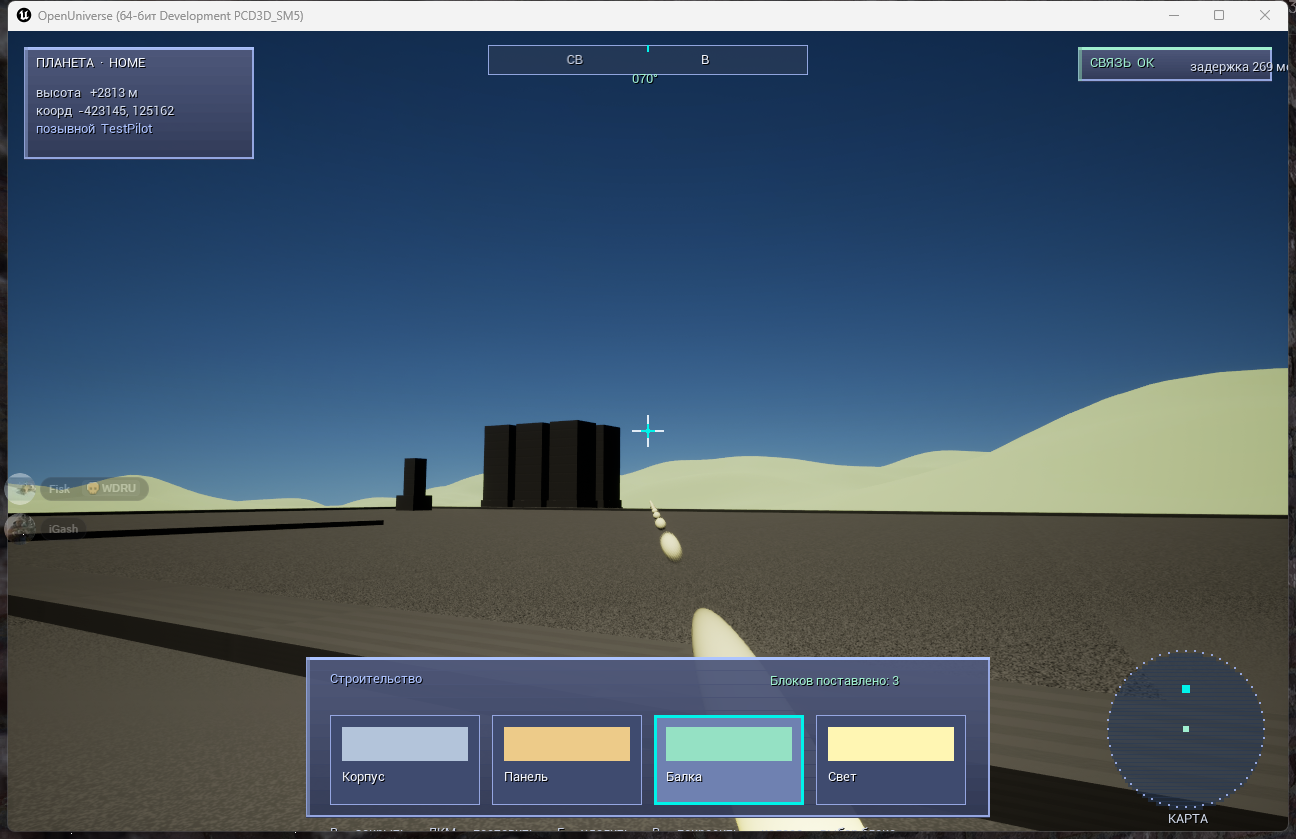
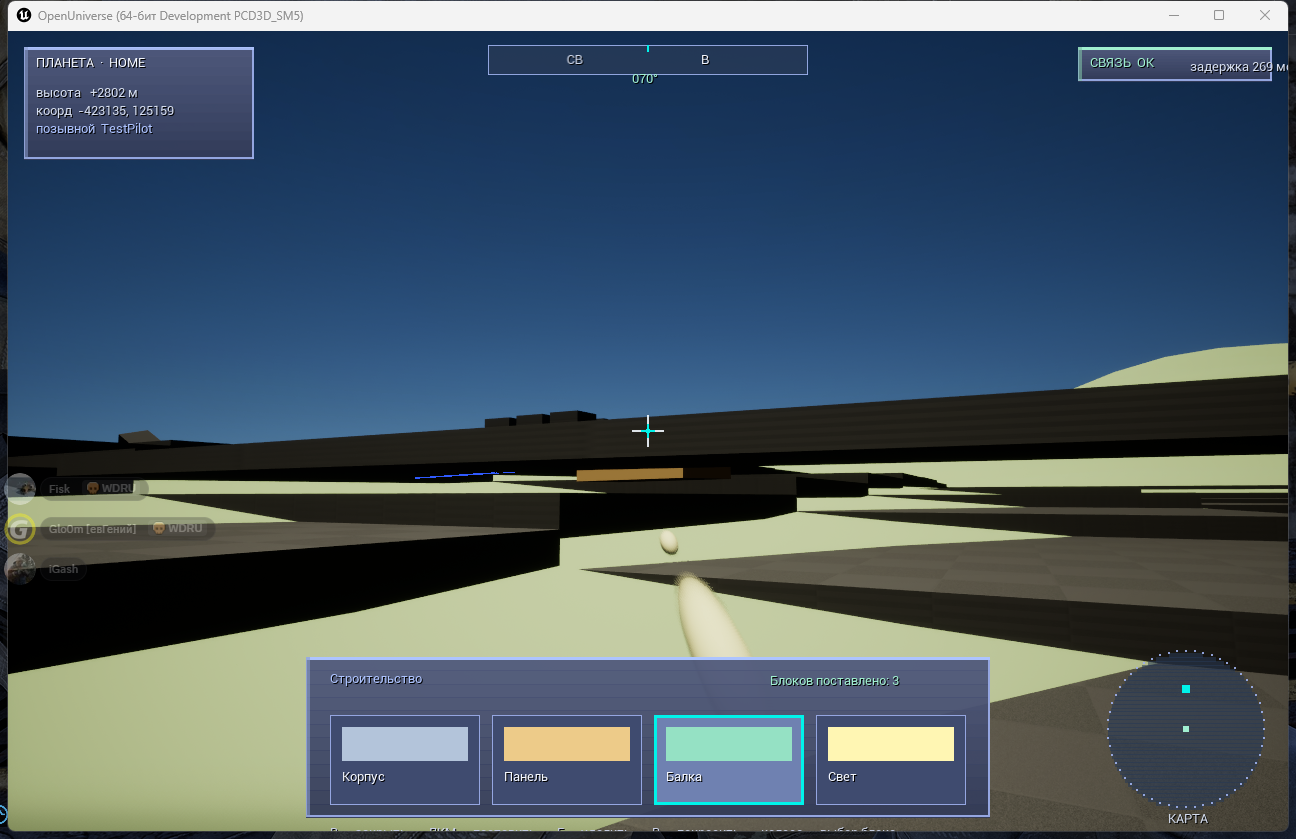
fix(base,input): ground-conforming pad (walkable base) + mouse pitch sign; v0.57.0

diff --git a/report.html b/report.html
@@ -6,7 +6,7 @@
   <title data-i18n="rep.title">Open Universe — development report</title>
   <meta name="description" content="Open Universe development report: what is done, engine screenshots, metrics and test results." />
   <link rel="icon" href="assets/blackhole.svg" type="image/svg+xml" />
-  <link rel="stylesheet" href="styles.css?v=0.56.0" />
+  <link rel="stylesheet" href="styles.css?v=0.57.0" />
   <style>
     .report { max-width: 1100px; margin: 0 auto; padding: 0 24px 80px; }
     .report h1 { font-size: clamp(2rem, 5vw, 3rem); margin: 40px 0 8px; letter-spacing: -1px;
@@ -51,13 +51,13 @@
 
   <main class="report">
     <h1 data-i18n="rep.h1">Development report</h1>
-    <p style="font-size:1.05rem" data-i18n="rep.intro">What already works, with evidence: engine screenshots, metrics and test results. Version <b id="ver">0.56.0</b>.</p>
+    <p style="font-size:1.05rem" data-i18n="rep.intro">What already works, with evidence: engine screenshots, metrics and test results. Version <b id="ver">0.57.0</b>.</p>
 
     <div class="meta">
       <div><b id="m-tests">223</b><span data-i18n="rep.m.tests">core tests (Rust)</span></div>
       <div><b id="m-crates">13</b><span data-i18n="rep.m.crates">modules (crates)</span></div>
       <div><b id="m-progress">73%</b><span data-i18n="rep.m.progress">plan complete</span></div>
-      <div><b id="m-version">v0.56.0</b><span data-i18n="rep.m.version">latest release</span></div>
+      <div><b id="m-version">v0.57.0</b><span data-i18n="rep.m.version">latest release</span></div>
     </div>
 
     <!-- ================= 1. What is done ================= -->
@@ -315,7 +315,7 @@ $ cargo run -p ou-render --release --bin ou-netrender -- 127.0.0.1:7777 8 4
     </div>
   </footer>
 
-  <script src="i18n.js?v=0.56.0"></script>
+  <script src="i18n.js?v=0.57.0"></script>
   <script>
     (function () {
       "use strict";

diff --git a/index.html b/index.html
@@ -6,7 +6,7 @@
   <title data-i18n="page.title">Open Universe — an open-space MMO sandbox</title>
   <meta name="description" content="Open Universe — one living universe, voxel building, a player-driven economy and programmable constructions. A development plan with live progress." />
   <link rel="icon" href="assets/blackhole.svg" type="image/svg+xml" />
-  <link rel="stylesheet" href="styles.css?v=0.56.0" />
+  <link rel="stylesheet" href="styles.css?v=0.57.0" />
 </head>
 <body>
 
@@ -296,7 +296,7 @@ VWAP = 26 · Trades in the log: 2</code></pre>
       <div class="download-grid">
         <div class="panel dl-card">
           <div class="dl-head">
-            <span class="dl-ver" id="dl-version">v0.56.0</span>
+            <span class="dl-ver" id="dl-version">v0.57.0</span>
             <span class="hero-badge" style="font-size:.72rem"><span class="dot"></span> <span data-i18n="dl.latestBadge">Latest version</span></span>
           </div>
           <h3 data-i18n="dl.cardTitle">Open Universe launcher</h3>
@@ -428,8 +428,8 @@ powershell -File tools/test-client.ps1</code></pre>
     <span aria-hidden="true">❤</span> <span data-i18n="sponsor.fab">Become a sponsor</span>
   </a>
 
-  <script src="i18n.js?v=0.56.0"></script>
-  <script src="data.js?v=0.56.0"></script>
-  <script src="app.js?v=0.56.0"></script>
+  <script src="i18n.js?v=0.57.0"></script>
+  <script src="data.js?v=0.57.0"></script>
+  <script src="app.js?v=0.57.0"></script>
 </body>
 </html>

diff --git a/i18n.js b/i18n.js
@@ -284,7 +284,7 @@ window.OU_I18N = {
     "rep.title": "Open Universe — отчёт о разработке",
     "rep.nav.home": "← На главную",
     "rep.h1": "Отчёт о разработке",
-    "rep.intro": "Что уже работает, с доказательствами: скриншотами движка, метриками и результатами тестов. Версия <b>0.56.0</b>.",
+    "rep.intro": "Что уже работает, с доказательствами: скриншотами движка, метриками и результатами тестов. Версия <b>0.57.0</b>.",
     "rep.m.tests": "тестов ядра (Rust)",
     "rep.m.crates": "модулей (крейтов)",
     "rep.m.progress": "план выполнен",
@@ -678,7 +678,7 @@ window.OU_I18N = {
     "rep.title": "Open Universe — development report",
     "rep.nav.home": "← Back to home",
     "rep.h1": "Development report",
-    "rep.intro": "What already works, with evidence: engine screenshots, metrics and test results. Version <b>0.56.0</b>.",
+    "rep.intro": "What already works, with evidence: engine screenshots, metrics and test results. Version <b>0.57.0</b>.",
     "rep.m.tests": "core tests (Rust)",
     "rep.m.crates": "modules (crates)",
     "rep.m.progress": "plan complete",

diff --git a/client/Source/OpenUniverse/OUSurfaceBase.cpp b/client/Source/OpenUniverse/OUSurfaceBase.cpp
@@ -148,7 +148,7 @@ double AOUSurfaceBase::DeckSurfaceRadiusAt(const FVector& DirUE, float InPadRadi
 	return static_cast<double>(BaseCenter.Size()) + DeckUp;
 }
 
-void AOUSurfaceBase::AddBlock(const FVector& Offset, const FVector& Size, const FLinearColor& Color, const FString& Name)
+void AOUSurfaceBase::AddBlock(const FVector& Offset, const FVector& Size, const FLinearColor& Color, const FString& Name, bool bSolid)
 {
 	if (!CubeMesh)
 	{
@@ -161,13 +161,20 @@ void AOUSurfaceBase::AddBlock(const FVector& Offset, const FVector& Size, const 
 	Comp->SetRelativeLocation(Offset);
 	// Базовый куб движка — 100 см; масштаб задаём относительно него.
 	Comp->SetRelativeScale3D(Size / 100.f);
-	// Блок — твёрдый: персонаж не должен «проваливаться» сквозь него. Блокируем
-	// и мир (капсула персонажа — Pawn), и луч прицела (Visibility).
-	Comp->SetCollisionEnabled(ECollisionEnabled::QueryAndPhysics);
-	Comp->SetCollisionObjectType(ECC_WorldStatic);
-	Comp->SetCollisionResponseToAllChannels(ECR_Block);
 	Comp->SetMobility(EComponentMobility::Movable);
 	Comp->SetGenerateOverlapEvents(false);
+	if (bSolid)
+	{
+		// Твёрдый блок (здания, фундаменты): персонаж не проходит сквозь.
+		Comp->SetCollisionEnabled(ECollisionEnabled::QueryAndPhysics);
+		Comp->SetCollisionObjectType(ECC_WorldStatic);
+		Comp->SetCollisionResponseToAllChannels(ECR_Block);
+	}
+	else
+	{
+		// Плиты поля/разметка — только визуал (не мешают ходить по земле).
+		Comp->SetCollisionEnabled(ECollisionEnabled::NoCollision);
+	}
 	if (BaseMaterial)
 	{
 		Comp->SetMaterial(0, BaseMaterial);
@@ -205,49 +212,38 @@ void AOUSurfaceBase::BuildBase()
 	const FLinearColor Cyan(0.10f, 0.92f, 0.86f);
 	const FLinearColor Strip(0.30f, 0.88f, 1.00f);
 
-	// --- Посадочное поле: РОВНАЯ плита-платформа с бортом вниз к земле ---
-	// Место появления — самое ровное на планете, но перепад в десятки метров
-	// всё равно есть. Поэтому поле делаем единой ГОРИЗОНТАЛЬНОЙ плитой на
-	// высоте самой высокой точки площадки, а под ней — тёмный борт до земли.
-	// Так площадка действительно плоская (как настоящий космодром), а не
-	// ступеньками повторяет рельеф.
+	// --- Посадочное поле: плиты ЛОЖАТСЯ НА ЗЕМЛЮ (без высоких бортов) ---
+	// Раньше поле было поднято до самой высокой точки и обнесено сплошным бортом
+	// до земли — снаружи это была непроходимая стена, а если игрок появлялся
+	// внутри, он «проходил» сквозь неё. Теперь плиты повторяют рельеф (место и
+	// так самое ровное): пройти по комплексу можно свободно, а здания остаются
+	// твёрдыми препятствиями.
 	const float PadR = PadRadius;
-	const int32 NS = 12;   // сетка замеров земли под полем
-	float GMin = 1e9f, GMax = -1e9f;
-	for (int32 I = 0; I <= NS; ++I)
+	const int32 N = 16;                    // сетка плит поля (2*PadR / N на плиту)
+	const float Cell = (2.f * PadR) / N;
+	const float Lift = 25.f;               // подъём плиты над землёй, см
+	const float TileThick = 60.f;
+	for (int32 I = 0; I < N; ++I)
 	{
-		for (int32 J = 0; J <= NS; ++J)
+		for (int32 J = 0; J < N; ++J)
 		{
-			const float sx = -PadR + (2.f * PadR) * I / NS;
-			const float sy = -PadR + (2.f * PadR) * J / NS;
-			const float g = FloorHeightAt(sx, sy);
-			GMin = FMath::Min(GMin, g);
-			GMax = FMath::Max(GMax, g);
+			const float CX = -PadR + (I + 0.5f) * Cell;
+			const float CY = -PadR + (J + 0.5f) * Cell;
+			const float Gz = FloorHeightAt(CX, CY);
+			const bool bAlt = ((I + J) & 1) == 0;
+			const FLinearColor C = bAlt ? Deck : FLinearColor(0.40f, 0.43f, 0.48f);
+			AddBlock(FVector(CX, CY, Gz + Lift - TileThick * 0.5f),
+				FVector(Cell + 2.f, Cell + 2.f, TileThick), C,
+				FString::Printf(TEXT("Pad_%d_%d"), I, J), /*bSolid=*/false);
 		}
 	}
-	const float DeckTop = GMax + 40.f;                     // верх плиты
-	const float DeckThick = 150.f;
-	const float DeckCenterZ = DeckTop - DeckThick * 0.5f;
-	// Сама плита (одним блоком) + тёмный борт по периметру до земли.
-	AddBlock(FVector(0, 0, DeckCenterZ), FVector(2.f * PadR, 2.f * PadR, DeckThick), Deck, TEXT("PadDeck"));
-	const float SkirtBottom = GMin - 300.f;
-	const float SkirtH = DeckTop - SkirtBottom;
-	const float SkirtT = 260.f;
-	auto Skirt = [&](float CX, float CY, float SX, float SY, const FString& Nm)
-	{
-		AddBlock(FVector(CX, CY, SkirtBottom + SkirtH * 0.5f), FVector(SX, SY, SkirtH), Dark, Nm);
-	};
-	Skirt(0.f, PadR, 2.f * PadR + SkirtT, SkirtT, TEXT("SkirtN"));
-	Skirt(0.f, -PadR, 2.f * PadR + SkirtT, SkirtT, TEXT("SkirtS"));
-	Skirt(PadR, 0.f, SkirtT, 2.f * PadR, TEXT("SkirtE"));
-	Skirt(-PadR, 0.f, SkirtT, 2.f * PadR, TEXT("SkirtW"));
 
 	// --- Разметка поля: светящаяся рамка по периметру и «Н»-полоса ---
-	const float MarkZ = DeckTop + 20.f;
 	const float Lw = 220.f;   // ширина полосы разметки
 	auto EdgeStrip = [&](float CX, float CY, float SX, float SY, const FString& Nm)
 	{
-		AddBlock(FVector(CX, CY, MarkZ), FVector(SX, SY, 40.f), Strip, Nm);
+		const float Gz = FloorHeightAt(CX, CY);
+		AddBlock(FVector(CX, CY, Gz + Lift + 30.f), FVector(SX, SY, 40.f), Strip, Nm, /*bSolid=*/false);
 	};
 	EdgeStrip(0.f, PadR - Lw * 0.5f, 2.f * PadR, Lw, TEXT("MarkN"));
 	EdgeStrip(0.f, -PadR + Lw * 0.5f, 2.f * PadR, Lw, TEXT("MarkS"));
@@ -258,23 +254,16 @@ void AOUSurfaceBase::BuildBase()
 	EdgeStrip(PadR * 0.35f, 0.f, 260.f, PadR * 0.7f, TEXT("H2"));
 	EdgeStrip(0.f, 0.f, PadR * 0.7f, 260.f, TEXT("H3"));
 
-	// Все здания ставим на ЕДИНЫЙ уровень поля (верх плиты): так комплекс
-	// читается как один объект. Под каждым — фундамент до земли, чтобы ничего
-	// не парило на склоне.
+	// Здания ставим на ЗЕМЛЮ в их точке (плиты повторяют рельеф), с фундаментом
+	// вниз. Так ничего не парит и не образует стену поперёк пути.
 	auto AddOnDeck = [&](float CX, float CY, const FVector& Size, const FLinearColor& Color, const FString& Nm)
 	{
-		const float G = FloorHeightAt(CX, CY);
-		const float Base = DeckTop;                    // низ здания на уровне поля
-		// Фундамент от земли до уровня поля (если земля ниже).
-		const float FoundTop = Base;
-		const float FoundBottom = FMath::Min(G, Base) - 200.f;
-		if (FoundTop > FoundBottom)
-		{
-			const float FH = FoundTop - FoundBottom;
-			AddBlock(FVector(CX, CY, FoundBottom + FH * 0.5f),
-				FVector(Size.X * 1.05f, Size.Y * 1.05f, FH), Dark, Nm + TEXT("Found"));
-		}
-		AddBlock(FVector(CX, CY, Base + Size.Z * 0.5f), Size, Color, Nm);
+		const float G = FloorHeightAt(CX, CY) + Lift;   // уровень площадки тут
+		const float FoundBottom = G - 400.f;
+		const float FH = G - FoundBottom;
+		AddBlock(FVector(CX, CY, FoundBottom + FH * 0.5f),
+			FVector(Size.X * 1.05f, Size.Y * 1.05f, FH), Dark, Nm + TEXT("Found"));
+		AddBlock(FVector(CX, CY, G + Size.Z * 0.5f), Size, Color, Nm);
 	};
 
 	// --- Командно-диспетчерская вышка (север поля) ---

diff --git a/client/Source/OpenUniverse/OUCharacterPawn.cpp b/client/Source/OpenUniverse/OUCharacterPawn.cpp
@@ -244,11 +244,10 @@ void AOUCharacterPawn::BeginPlay()
 	FVector ShipPos = CharPos + Fwd * 900.f + Side * 700.f;
 	if (AOUVoxelPlanet* Planet = AOUVoxelPlanet::FindHomePlanet(World))
 	{
-		// Встаём НА посадочное поле базы, а не на аналитическую землю: поле
-		// выровнено до самой высокой точки площадки.
-		const float DeckUp = AOUSurfaceBase::DeckOffsetCm(BaseSpawn, 9000.f);
-		CharPos = CharPos.GetSafeNormal() * (Planet->SurfaceRadiusAt(CharPos.GetSafeNormal()) + DeckUp + 95.f);
-		ShipPos = ShipPos.GetSafeNormal() * (Planet->SurfaceRadiusAt(ShipPos.GetSafeNormal()) + DeckUp + 140.f);
+		// Плиты площадки лежат на земле (только визуал), поэтому стоим на
+		// аналитической поверхности планеты.
+		CharPos = CharPos.GetSafeNormal() * (Planet->SurfaceRadiusAt(CharPos.GetSafeNormal()) + 95.f);
+		ShipPos = ShipPos.GetSafeNormal() * (Planet->SurfaceRadiusAt(ShipPos.GetSafeNormal()) + 140.f);
 	}
 
 	// Курс персонажа — «наружу» от базы (по Fwd).
@@ -406,6 +405,8 @@ void AOUCharacterPawn::AxisLookPitchMouse(float Value)
 {
 	if (bCursorCaptured)
 	{
+		// Мышь ВВЕРХ должна смотреть ВВЕРХ. UE даёт MouseY > 0 при движении вверх,
+		// поэтому прибавляем без инверсии (в ini ось теперь тоже Scale=+1).
 		ViewPitch = FMath::Clamp(ViewPitch + Value * MouseSensitivity, -1.4f, 1.4f);
 	}
 }
@@ -1038,17 +1039,10 @@ void AOUCharacterPawn::Tick(float DeltaSeconds)
 		}
 	}
 
-	// Привязка к рельефу: не проваливаемся под поверхность. Если игрок — на
-	// площадке базы, стоим на её ВЕРХУ, а не на аналитической земле под ней.
+	// Привязка к рельефу: не проваливаемся под поверхность. Плиты площадки —
+	// только визуал, поэтому землёй остаётся аналитический рельеф планеты.
 	const FVector Dir = NewPos.GetSafeNormal();
-	double Surface = static_cast<double>(SurfaceRadius(Dir)) + CapsuleHalfHeight;
-	{
-		const double Deck = AOUSurfaceBase::DeckSurfaceRadiusAt(Dir, 9000.f);
-		if (Deck > 0.0)
-		{
-			Surface = FMath::Max(Surface, Deck + CapsuleHalfHeight);
-		}
-	}
+	const double Surface = static_cast<double>(SurfaceRadius(Dir)) + CapsuleHalfHeight;
 
 	// Диагностика `-OUBaseOverview`: держим камеру над базой (обзор сверху),
 	// иначе гравитация прижимает её к земле.

diff --git a/client/Source/OpenUniverse/OUSurfaceBase.h b/client/Source/OpenUniverse/OUSurfaceBase.h
@@ -77,7 +77,7 @@ protected:
 
 private:
 	/** Добавить блок (позиция и размер — в локальных осях базы, см). */
-	void AddBlock(const FVector& Offset, const FVector& Size, const FLinearColor& Color, const FString& Name);
+	void AddBlock(const FVector& Offset, const FVector& Size, const FLinearColor& Color, const FString& Name, bool bSolid = true);
 
 	/**
 	 * Высота пола базы над «нулём» актора в локальной точке (X,Y), см.

diff --git a/CHANGELOG.md b/CHANGELOG.md
@@ -3,6 +3,20 @@
 Все значимые изменения проекта. Формат близок к [Keep a Changelog](https://keepachangelog.com/ru/1.1.0/),
 версии — [SemVer](https://semver.org/lang/ru/).
 
+## [0.57.0] — 2026-11-13
+
+Комплекс базы стал проходимым, а мышь по вертикали — в правильную сторону.
+
+### Исправлено
+- **По базе теперь можно свободно ходить.** Посадочное поле было поднято на
+  высоту самой высокой точки и обнесено сплошным бортом до земли — снаружи это
+  была стена, а внутри игрок «проходил» сквозь неё. Теперь плиты поля **ложатся
+  на землю** (место и так самое ровное), высоких бортов нет. Плиты и разметка —
+  только визуал, поэтому нет фантомных ступеней; здания остаются твёрдыми.
+- **Мышь вверх — смотреть вверх.** Ось вертикального обзора была инвертирована
+  (`Scale=-1`), тогда как UE даёт `MouseY > 0` при движении вверх. Знак
+  исправлен у персонажа и у корабля.
+
 ## [0.56.0] — 2026-11-13
 
 Хотфикс: персонаж снова свободно ходит по планете.
